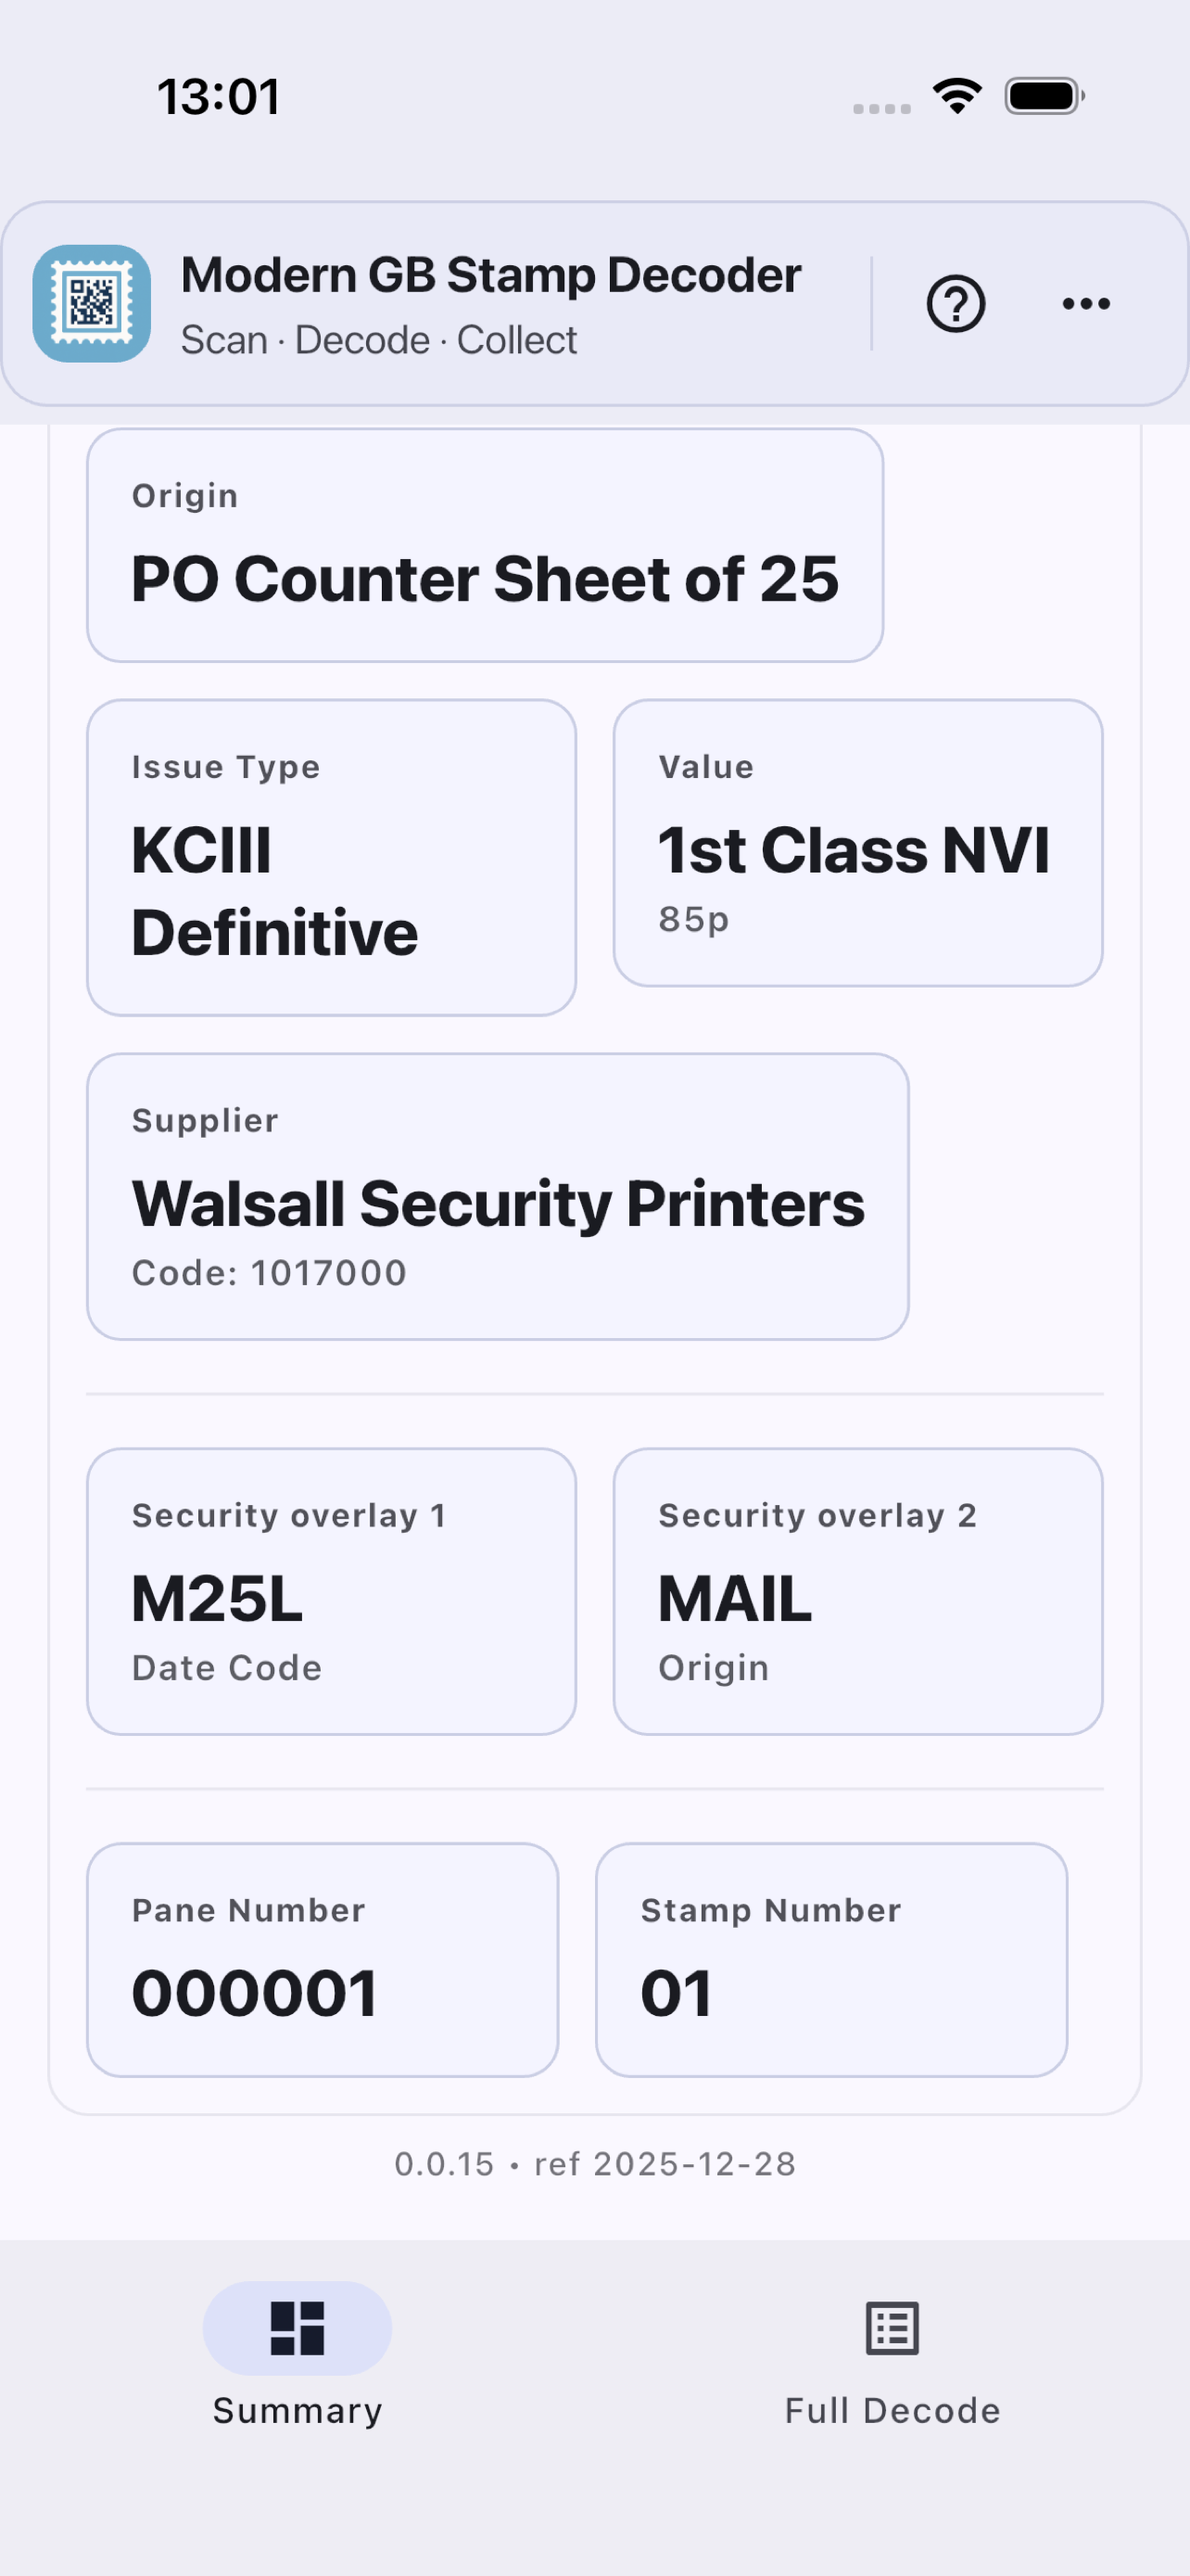
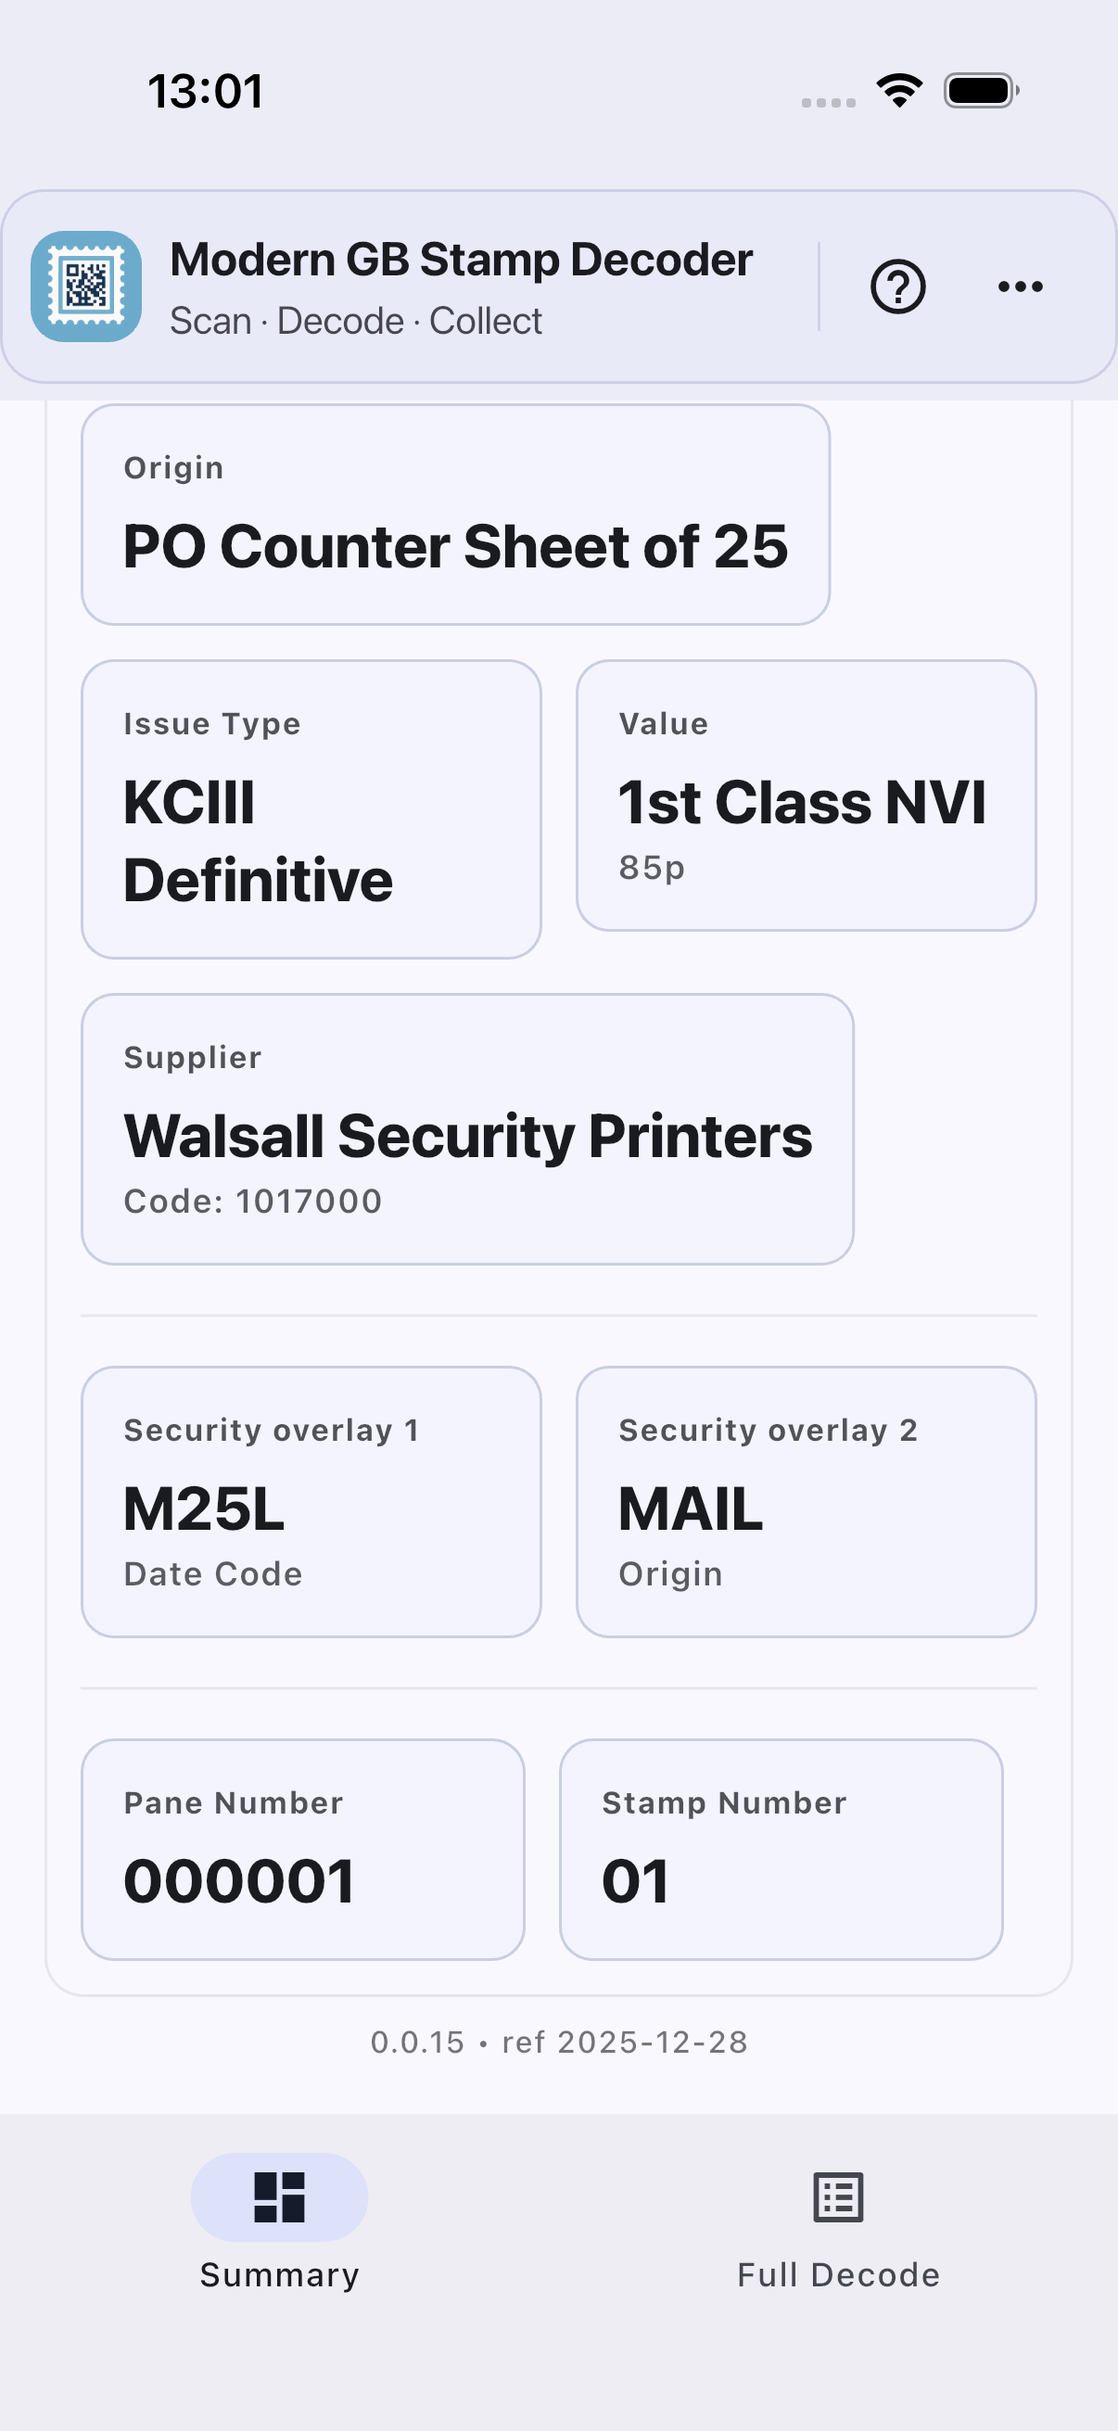
Use cleaner screenshot and remove aggressive preview crop

Changed region(s): [[0.0614, 0.0927, 0.092, 0.1236]]

diff --git a/assets/styles.css b/assets/styles.css
@@ -246,7 +246,7 @@ a{ color: inherit; }
   aspect-ratio: 9/16;
   border-radius: 24px;
   border: none;
-  background: transparent url("/assets/img/preview-summary.png") center top / 122% auto no-repeat;
+  background: transparent url("/assets/img/preview-summary.png") center / contain no-repeat;
   position:relative;
   overflow:hidden;
 }
